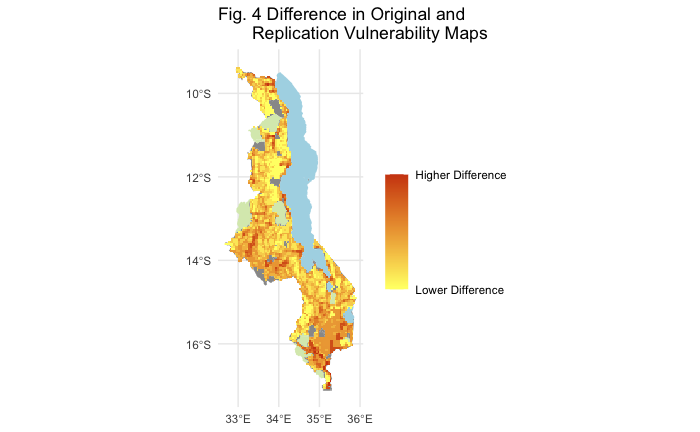
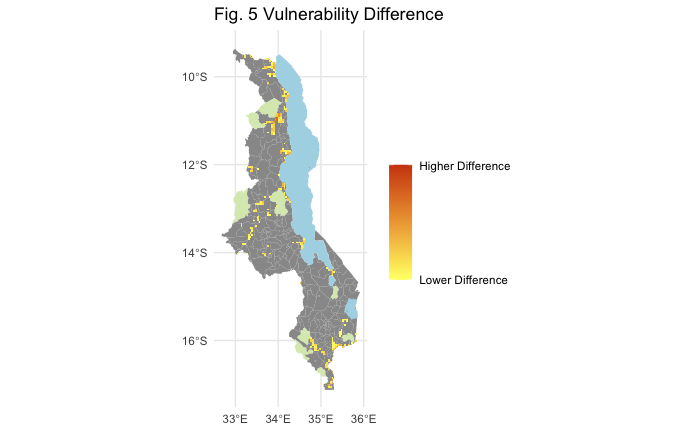
update methods

diff --git a/docs/report/RP-Malcomb-Report.md b/docs/report/RP-Malcomb-Report.md
@@ -10,7 +10,7 @@ title: RP- Vulnerability modeling for sub-Saharan Africa
 Original study *by* Malcomb, D. W., E. A. Weaver, and A. R. Krakowka. 2014. Vulnerability modeling for sub-Saharan Africa: An operationalized approach in Malawi. *Applied Geography* 48:17–30. DOI:[10.1016/j.apgeog.2014.01.004](https://doi.org/10.1016/j.apgeog.2014.01.004)
 
 Replication Authors:
-Your Name, Joseph Holler, Kufre Udoh, Open Source GIScience students of fall 2019 and Spring 2021
+Your Name, Joseph Holler, Kufre Udoh, Open Source GIScience students of Fall 2019 and Spring 2021
 
 Replication Materials Available at: [github repository name](github repository link)
 
@@ -30,11 +30,12 @@ The original study was published without data or code, but has detailed narrativ
 
 ### Data Description and Variables
 
-##*Access and Assets Data*:
+##*Access and Assets Data:*
  Demographic and Health Survey data are a product of the United States Agency for International Development (USAID). Variables contained in this dataset are used to represent adaptive capacity (access + assets) in the Malcomb et al.’s (2014) study. These data come from survey questionnaires with large sample sizes.
 The DHS data used in our study were collected in 2010. In Malawi, the provenance of the DHA data dates back as far as 1992, but has not been collected consistently every year. Each point in the household dataset represents a cluster of households with each cluster corresponding to some form of census enumeration units, such as villages in rural areas or city blocks in urban areas [DHS GPS Manual](/data/metadata/DHS_GPS_Manual_English_A4_24May2013_DHSM9.pdf). This means that each household in each cluster has the same GPS data. This data is collected by trained [USAID](https://www.usaid.gov/) staff using GPS receivers.
 Missing data is a common occurrence in this dataset as a result of negligence or incorrect naming. However, according to the [DHS GPS Manual](/data/metadata/DHS_GPS_Manual_English_A4_24May2013_DHSM9.pdf), these issues are easily rectified and typically sites for which data does not exist are recollected. Sometimes, however, missing information is coded in as such or assigned a proxy location.
-The DHS website acknowledges the high potential for inconsistent or incomplete data in such broad and expansive survey sets. Missing survey data (responses) are never estimated or made up; they are instead coded as a special response indicating the absence of data. As well, there are clear policies in place to ensure the data’s accuracy. More information about data validity can be found on the [DHS’s Data Quality and Use site](https://www.dhsprogram.com/data/Data-Quality-and-Use.cfm).
+The DHS website acknowledges the high potential for inconsistent or incomplete data in such broad and expansive survey sets. Missing survey data (responses) are never estimated or made up; they are instead coded as a special response indicating the absence of data. As well, there are clear policies in place to ensure the data’s accuracy. More information about data validity can be found on the [DHS’s Data Quality and Use site](https://www.dhsprogram.com/data/Data-Quality-and-Use.cfm). In this analysis, we use the variables listed in **Table 1** to determine the average adaptive capacity of each TA area. Data transformations are outlined below.
+
 
 **Table 1.** DHS variables used in this analysis.
 | Variable Code | Definition |
@@ -58,22 +59,22 @@ The DHS website acknowledges the high potential for inconsistent or incomplete d
  |HV204 |“Time to get to Water Source”|
 
 **Variable Transformations**
-1) Eliminate households with null and/or missing values
-1) Join TA and LHZ ID data to the DHS clusters
-1) Eliminate NA values for livestock
-1) Sum counts of all different kinds of livestock into a single variable
-1) Apply weights to normalized indicator variables to get scores for each category (assets, access)
-1) find the stats of the capacity of each TA (min, max, mean, sd)
-1) Join ta_capacity to TA based on ta_id
-1) Prepare breaks for mapping
-1) Class intervals based on capacity_2010 field
-1) Take the values and round them to 2 decimal places
-1) Put data in 4 classes based on break values
+1. Eliminate households with null and/or missing values
+1. Join TA and LHZ ID data to the DHS clusters
+1. Eliminate NA values for livestock
+1. Sum counts of all different kinds of livestock into a single variable
+1. Apply weights to normalized indicator variables to get scores for each category (assets, access)
+1. Find the statistics of the capacity of each TA (min, max, mean, sd)
+1. Join ta_capacity to TAs based on ta_id
+1. Prepare breaks for mapping
+1. Class intervals based on capacity_2010 field
+1. Take the values and round them to 2 decimal places
+1. Put data in 4 classes based on break values
 
-##*Livelihood Zones Data*:
+##*Livelihood Zones Data:*
 The Livelihood zone data is created by aggregating general regions where similar crops are grown and similar ecological patterns exist. This data exists originally at the household level and was aggregated into Livelihood Zones. To construct the aggregation used for “Livelihood Sensitivity” in this analysis, we use these household points from the FEWSnet data that had previously been aggregated into livelihood zones. The four Livelihood Sensitivity categories are 1) Percent of food from own farm (6%); 2) Percent of income from wage labor (6%); 3) Percent of income from cash crops (4%); and 4) Disaster coping strategy (4%). In the original R script, household data from the DHS survey was used as a proxy for the specific data points in the livelihood sensitivity analysis (transformation: Join with DHS clusters to apply LHZ FNID variables). With this additional FEWSnet data at the household level, we can construct these four livelihood sensitivity categories using existing variables (Table 1).
 
-**Table 1.** Constructing livelihood sensitivity categories
+**Table 2.** Constructing livelihood sensitivity categories
 
 | Livelihood Sensitivity Category (LSC)  | Percent Contributing| How LSC was constructed |
 | ------------- | ------------- | ------------- |
@@ -83,6 +84,17 @@ The Livelihood zone data is created by aggregating general regions where similar
 | Disaster coping strategy  | 4%  | Self-employment & small business and trade: (firewood + sale of wild food + grass + mats + charcoal) / total sources of cash * 100 |
 
 
+##*Physical Exposure Data:*
+**Flood Data:** This dataset stems from work collected by multiple agencies and funneled into the PREVIEW Global Risk Data Platform, “an effort to share spatial information on global risk from natural hazards.” The dataset was designed by UNEP/GRID-Europe for the Global Assessment Report on Risk Reduction (GAR), using global data. A flood estimation value is assigned via an index of 1 (low) to 5 (extreme)
+**Drought Data:**This dataset uses the Standardized Precipitation Index to measure annual drought exposure across the globe. The Standardized Precipitation Index draws on data from a “global monthly gridded precipitation dataset” from the University of East Anglia’s Climatic Research Unit, and was modeled in GIS using methodology from Brad Lyon at Columbia University. The dataset draws on 2010 population information from the LandScanTM Global Population Database at the Oak Ridge National Laboratory.  Drought exposure is reported as the expected average annual (2010) population exposed. The data were compiled by UNEP/GRID-Europe for the Global Assessment Report on Risk Reduction (GAR). The data use the WGS 1984 datum, span the years 1980-2001, and are reported in raster format with spatial resolution 1/24 degree x 1/24 degree.
+
+**Variable Transformations**
+1. Load in UNEP raster
+1. Set CRS for drought to EPSG:4326
+1. Set CRS for flood to EPSG:4326
+1.Reproject, clip, and resample based on bounding box (dimensions: xmin = 35.9166666666658188, xmax = 32.6666666666658330,  ymin = -9.3333333333336554, ymax = -17.0833333333336270) and resolution of blank raster we created: resolution is 1/24 degree x 1/24 degree
+1. Use bilinear resampling for drought to average continuous population exposure values
+1. Use nearest-neighbor resampling for flood risk to preserve integer values
 
 
 Outline the data used in the study, including:
@@ -99,46 +111,53 @@ The original study was conducted using ArcGIS and STATA, but does not state whic
 The replication study will use R.
 
 ## Materials and Procedure
+The steps outlined below mirror the steps used in the [R Code for this project](/RP-Malcomb/procedure/code/RP-Malcomb-jh.Rmd).
 
-*ADAPTIVE CAPACITY WORKFLOW [ASSETS & ACCESS]*
-
+*Process Adaptive Capacity*
 1. Bring in DHS Data [Households Level] (vector)
-2. FIELD CALCULATOR: Normalize each indicator variable into quintiles (0 is lowest, 5 is highest--we understand this doesn’t make sense if there are only 5 categories, but this is what the authors said they did)
-3. FIELD CALCULATOR / ADD FIELD: Apply weights to normalized indicator variables to get scores for each category (assets, access)
-4. FIELD CALCULATOR / ADD FIELD: Combine assets and access into adaptive capacity
-5. AGGREGATE: Aggregate into villages
-6. AGGREGATE: Aggregate into TA geometries, calculate average adaptive capacity score (Assets + Access) for each TA (Spatial Join → Group By)
+2. Bring in TA (Traditional Authority boundaries) and LHZ (livelihood zones) data
+3. Get rid of unsuitable households (eliminate NULL and/or missing values)
+3. Join TA and LHZ ID data to the DHS clusters
+4. Pre-process the livestock data
+	Filter for NA livestock data
+	Update livestock data (summing different kinds)
+5. FIELD CALCULATOR: Normalize each indicator variable and rescale from 1-5 (real numbers) based on percent rank
+6. FIELD CALCULATOR / ADD FIELD: Apply weights to normalized indicator variables to get scores for each category (assets, access)
+7. SUMMARIZE/AGGREGATE: find the stats of the capacity of each TA (min, max, mean, sd)
+8. Join ta_capacity to TA based on ta_id
+	(Multiply by 20--meaningless??) I have a question about this (so do I) ln.216
+9. Prepare breaks for mapping
+Class intervals based on capacity_2010 field
+Take the values and round them to 2 decimal places
+Put data in 4 classes based on break values
+10. Save the adaptive capacity scores
 
-*HOUSEHOLD RESILIENCE & RASTER WORKFLOW [FINAL DELIVERABLE]*
-
-7. Bring in FEWSNET data (polygon***) and UNEP/GRID data (raster)
-8. FIELD CALCULATOR: quintile (assign scores 0-5) and weight FEWSNET data
-9. RASTER CALCULATOR: quintile (assign scores 0-5) and weight UNEP/GRID data
-10. RASTERIZE: turn household resilience at TA level into raster data at pixel size (30m? 90m?) of FEWSNET and UNEP
-11. RASTER CALCULATOR: Using FEWSNET, UNEP/GRID, and rasterized DHS resilience data; Calculate household resilience using the following formula:
-12. Household Resilience = Adaptive Capacity + Livelihood Sensitivity - Physical Exposure
-
-
-**Results: Figs. 3 & 4 (for us, only most recent data will be used - equivalent to Fig. 4)**
+*Process Livelihood Sensitivity*
+1. Load in LHZ geometries into R
+2. Join LHZ sensitivity data into R code
+3. Read in processed LHZ dataset
+4. Join the data to the LHZ geometries
+5. Put LHZ data into quintiles
+6. Calculate capacity score based on values in Malcomb et al. (2014)
 
 
-HOUSEHOLD RESILIENCE & RASTER WORKFLOW [FINAL DELIVERABLE]
+*Process Physical Exposure*
+1. Load in UNEP rasterSet CRS for drought
+2. Set CRS for flood
+3. Clean and reproject rasters
+4. Create a bounding box at extent of Malawi Where does this info come from
+5. For Drought: use bilinear to avg continuous population exposure values
+6. For Flood: use nearest neighbor to preserve integer values
+7. CLIP the traditional authorities with the LHZs to cut out the lake
+8. RASTERIZE the ta_capacity data with pixel data corresponding to capacity_2010 field
+9. RASTERIZE the livelihood sensitivity score with pixel data corresponding to capacity_2010 field
 
-Bring in FEWSNET data (polygon***) and UNEP/GRID data (raster)
-FIELD CALCULATOR: quintile (assign scores 0-5) and weight FEWSNET data
-RASTER CALCULATOR: quintile (assign scores 0-5) and weight UNEP/GRID data
-RASTERIZE: turn household resilience at TA level into raster data at pixel size (30m? 90m?) of FEWSNET and UNEP
-RASTER CALCULATOR: Using FEWSNET, UNEP/GRID, and rasterized DHS resilience data; Calculate household resilience using the following formula:
-Household Resilience = Adaptive Capacity + Livelihood Sensitivity - Physical Exposure
+*Raster Calculations*
+1. Create a mask
+2. Reclassify the flood layer (quintiles, currently binary)
+3. Reclassify the drought values (quantile [from 0 - 1 in intervals of 0.2 =5])
+4. AGGREGATE: Create final vulnerability layer using envi. vulnerability score and ta_capacity
 
-**Results: Fig. 5**
-
-## Replication Results
-
-For each output from the original study (mainly figure 4 and figure 5), present separately the results of the replication attempt.
-
-2.	State whether the original study was or was not supported by the replication
-3.	State whether any hypothesis linked to a planned deviation from the original study was supported. Provide key statistics and related reasoning.
 
 Figures to Include:
 - map of resilience by traditional authority in 2010, analagous to figure 4 of the original study
@@ -147,6 +166,11 @@ Figures to Include:
 - map of difference between your figure 5 and the original figure 5
 
 ## Unplanned Deviations from the Protocol
+Our first pass at creating a workflow before seeing the data outlined several areas of uncertainty. For instance, we were unsure of at what level of organization the DHS data came in (household level, village level, or district level). We were also unsure of the factors outlined below, which are ultimate sources of uncertainty in our replication analysis. 
+
+In this protocol, it was unclear how exactly the livelihood zones data were divided into the four categories of livelihood sensitivity. This is a large source of uncertainty in our analysis. In addition, the original study states that it broke the data into quintiles by assigning values of 0-5 to the data. This would actually result in six classes, or sextiles. We decided to use quintiles and assigned values of 1-5 when normalizing our data. It is also unclear how binary data in the original study was normalized on a 1-5 scale. For binary variables (e.g. sex), we assigned a value of 1 to the presumed lower-risk option (e.g. male) and a value of 2 to the higher-risk (e.g. female).
+
+It was also unclear when data were aggregated to the TA level—was this done before or after the data scores were normalized and weighted in the original study? We decided to aggregate after the data had been normalized and weighted.
 
 Summarize changes and uncertainties between
 - your interpretation and plan for the workflow based on reading the paper
